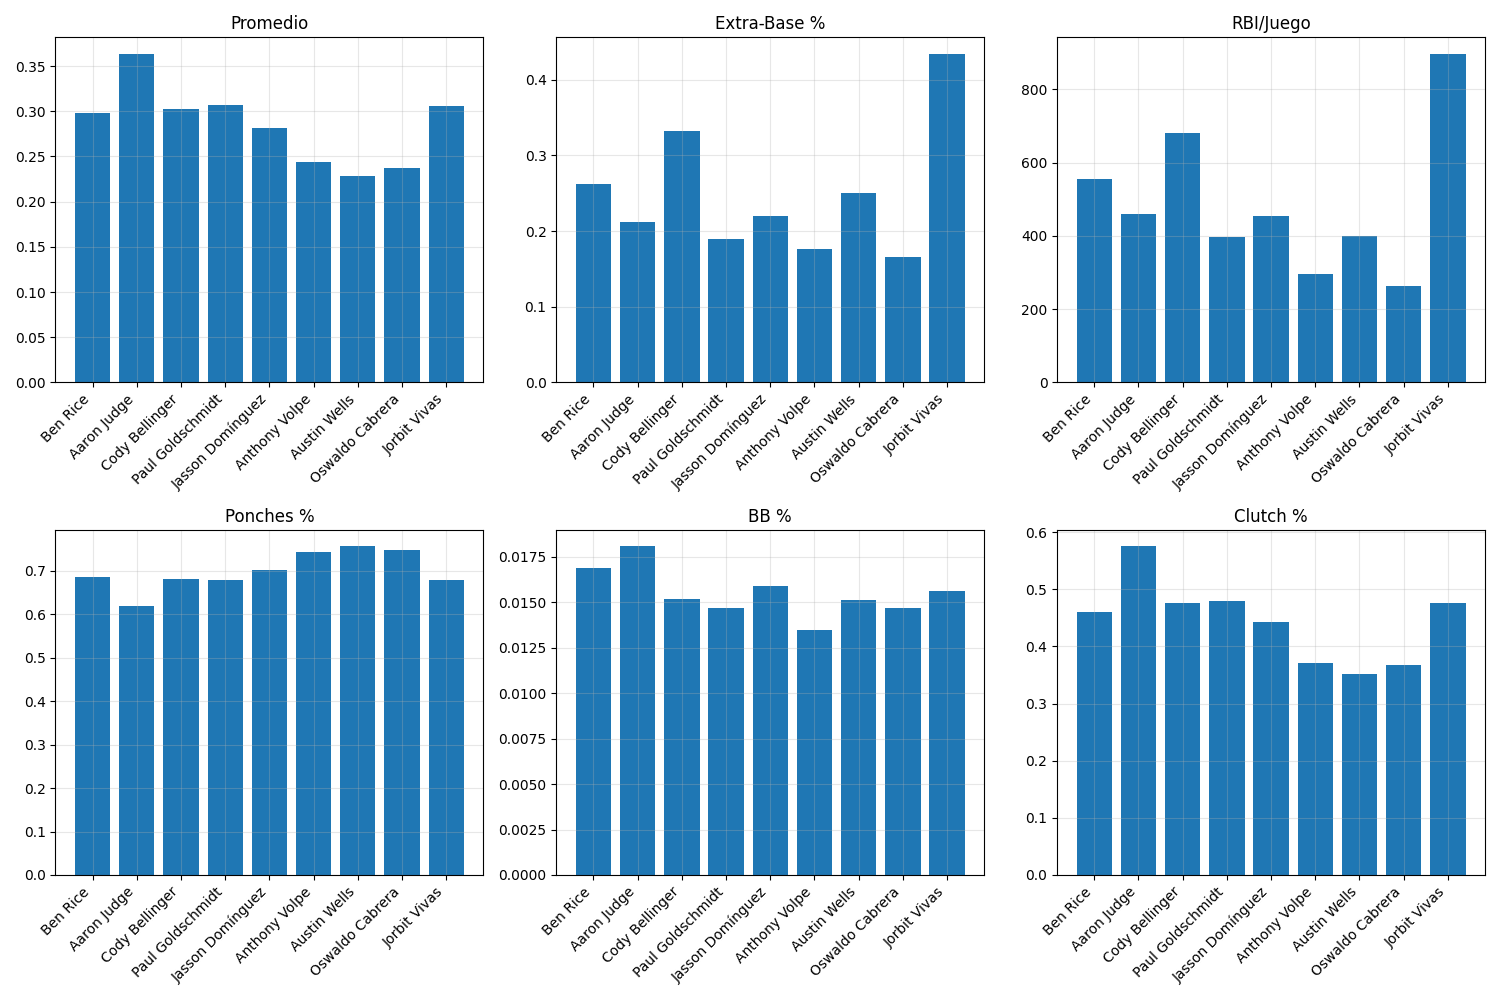
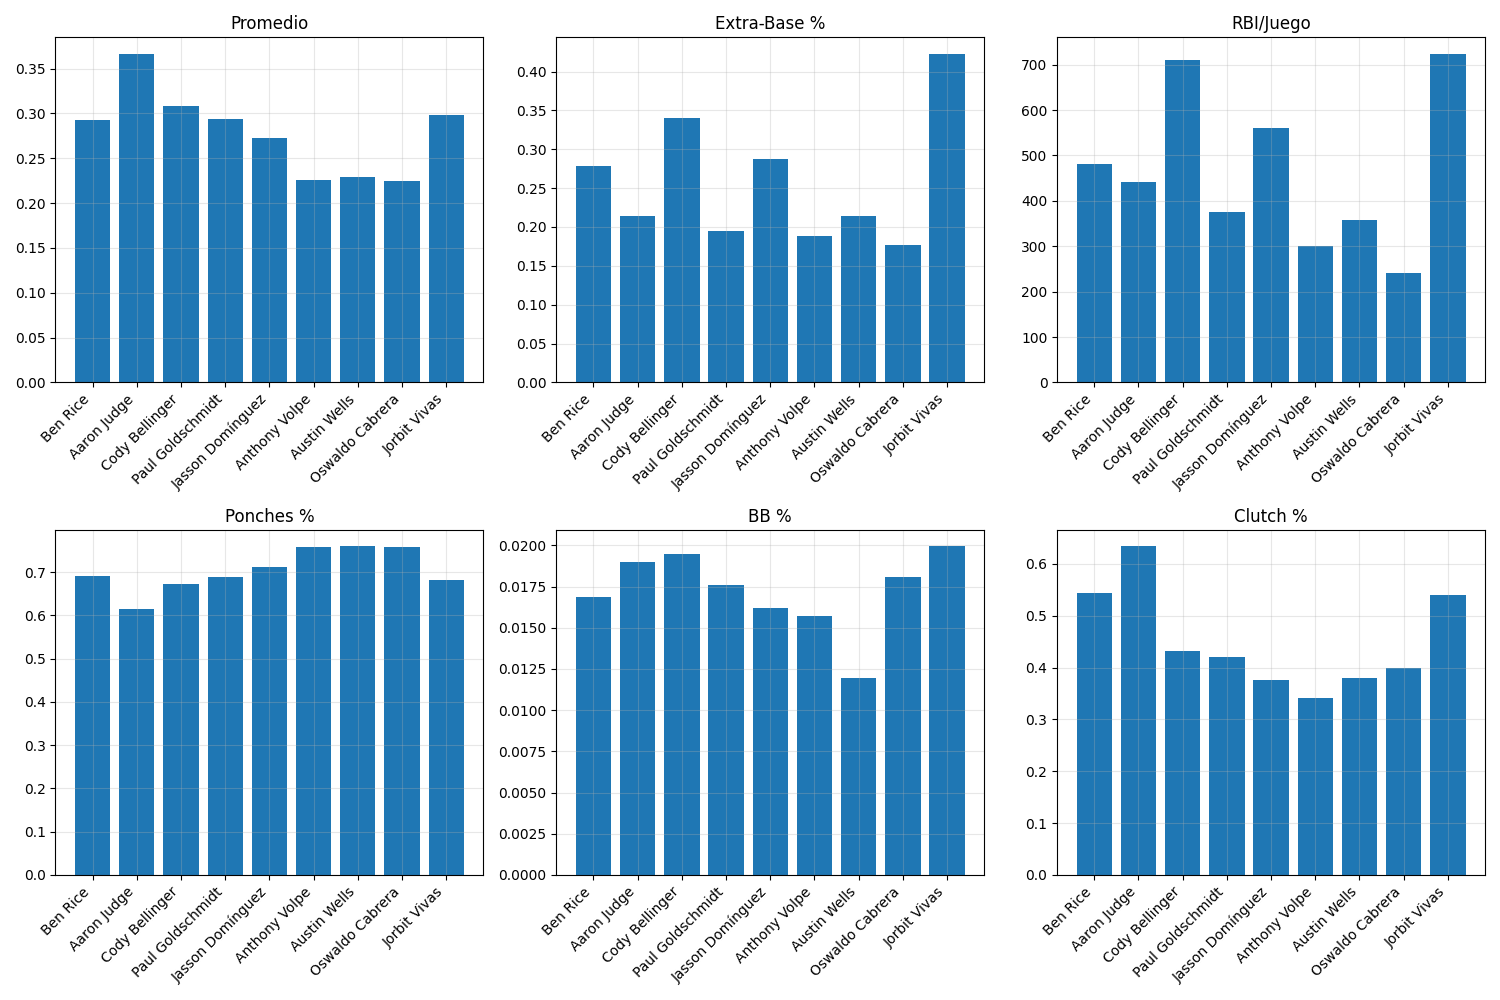
4

diff --git a/Baseball_simulator.py b/Baseball_simulator.py
@@ -76,6 +76,7 @@ class BaseballSimulator:
         self.player_stats = {player.name: PlayerStats(name=player.name) for player in lineup}
         self.pitcher_stats = {pitcher.name: PitcherStats(name=pitcher.name) for pitcher in bullpen}
         self.current_game_pitcher = None
+        self.batter_index = 0  # Nuevo: índice para el orden al bat
     
     def _select_pitcher(self, inning: int, runs_allowed: int) -> Pitcher:
         """
@@ -217,8 +218,9 @@ class BaseballSimulator:
         pitcher_stats.innings_pitched += 1
         
         while outs < 3:
-            # Seleccionar el siguiente bateador
-            batter = self.lineup[np.random.randint(0, len(self.lineup))]
+            # Seleccionar el siguiente bateador en orden
+            batter = self.lineup[self.batter_index]
+            self.batter_index = (self.batter_index + 1) % len(self.lineup)
             
             # Simular el resultado del turno al bat
             result = self._simulate_at_bat(batter, pitcher_factor)
@@ -372,24 +374,6 @@ class BaseballSimulator:
                 }
         return stats
 
-    def get_pitcher_statistics(self) -> Dict[str, Dict[str, float]]:
-        """
-        Retorna las estadísticas calculadas para cada pitcher.
-        """
-        stats = {}
-        for pitcher in self.bullpen:
-            pitcher_stats = self.pitcher_stats[pitcher.name]
-            if pitcher_stats.innings_pitched > 0:
-                stats[pitcher.name] = {
-                    'era': (pitcher_stats.earned_runs * 9) / pitcher_stats.innings_pitched,
-                    'whip': (pitcher_stats.hits_allowed + pitcher_stats.walks_allowed) / pitcher_stats.innings_pitched,
-                    'k_per_9': (pitcher_stats.strikeouts * 9) / pitcher_stats.innings_pitched,
-                    'win_pct': pitcher_stats.wins / (pitcher_stats.wins + pitcher_stats.losses) if (pitcher_stats.wins + pitcher_stats.losses) > 0 else 0,
-                    'runners_scored_pct': pitcher_stats.runs_with_runners / pitcher_stats.runners_on_base if pitcher_stats.runners_on_base > 0 else 0,
-                    'strikeout_rate': pitcher_stats.strikeouts / (pitcher_stats.innings_pitched * 3)
-                }
-        return stats
-
 # Ejemplo de uso
 if __name__ == "__main__":
     # Crear una alineación completa de jugadores con estadísticas reales
@@ -430,16 +414,3 @@ if __name__ == "__main__":
     for carreras, frecuencia in zip(resultados['bins'], resultados['distribucion']):
         print(f"{carreras} carreras: {frecuencia} veces")
     
-    # Imprimir estadísticas de la alineación
-    print("\nEstadísticas de la Alineación:")
-    print("Nombre\t\tPromedio\tSlugging\tOBP")
-    print("-" * 50)
-    for jugador in lineup:
-        print(f"{jugador.name}\t{jugador.batting_avg:.3f}\t\t{jugador.slugging:.3f}\t\t{jugador.obp:.3f}")
-    
-    # Imprimir estadísticas del bullpen
-    print("\nEstadísticas del Bullpen:")
-    print("Nombre\t\tERA\t\tWHIP\t\tK/9\tRol\t\tResistencia")
-    print("-" * 70)
-    for pitcher in bullpen:
-        print(f"{pitcher.name}\t{pitcher.era:.2f}\t\t{pitcher.whip:.2f}\t\t{pitcher.k_per_9:.1f}\t{pitcher.role.value}\t{pitcher.stamina:.1f}")
